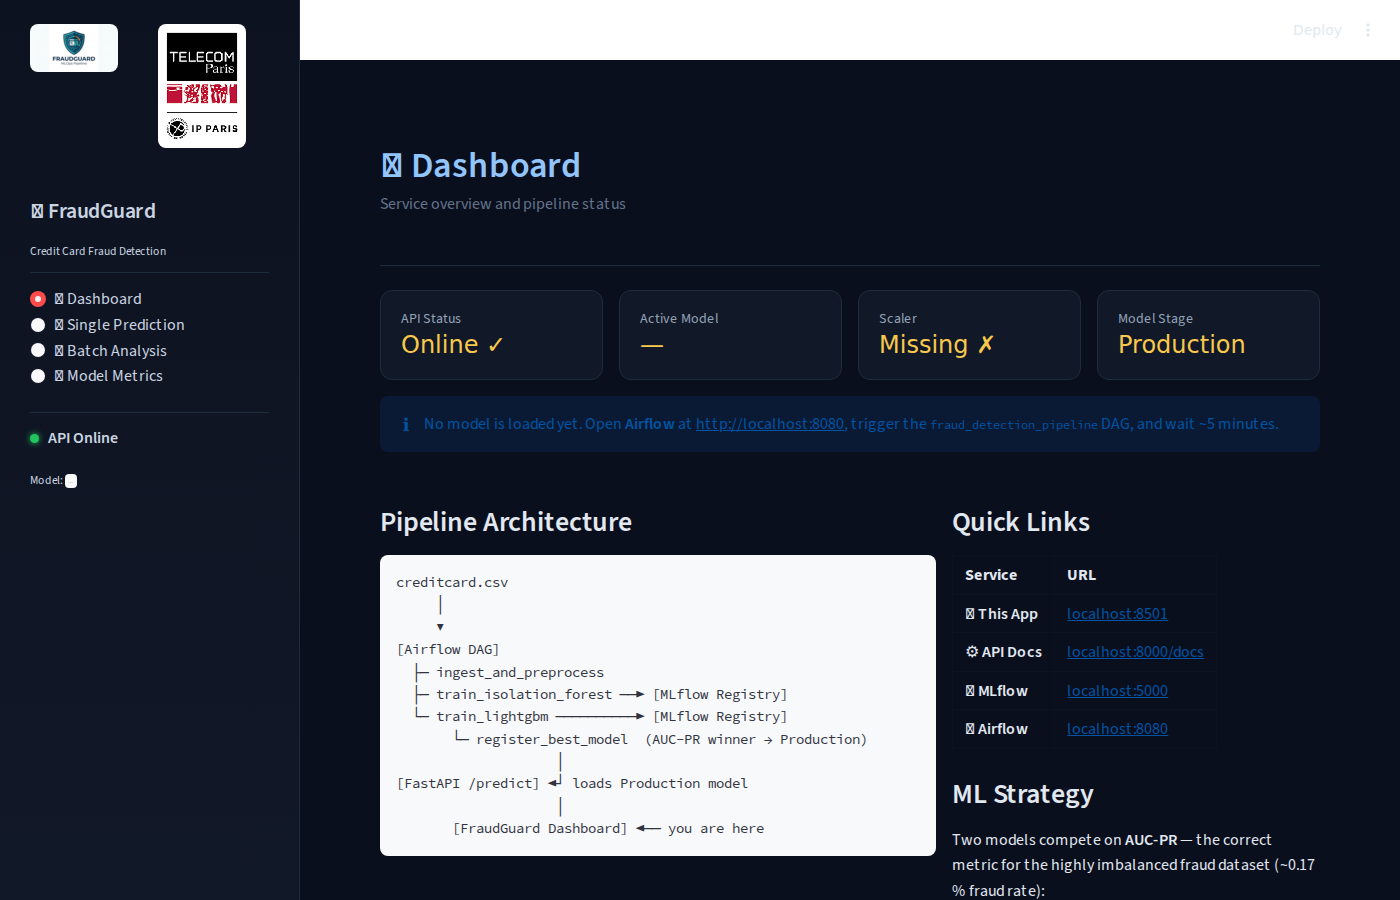
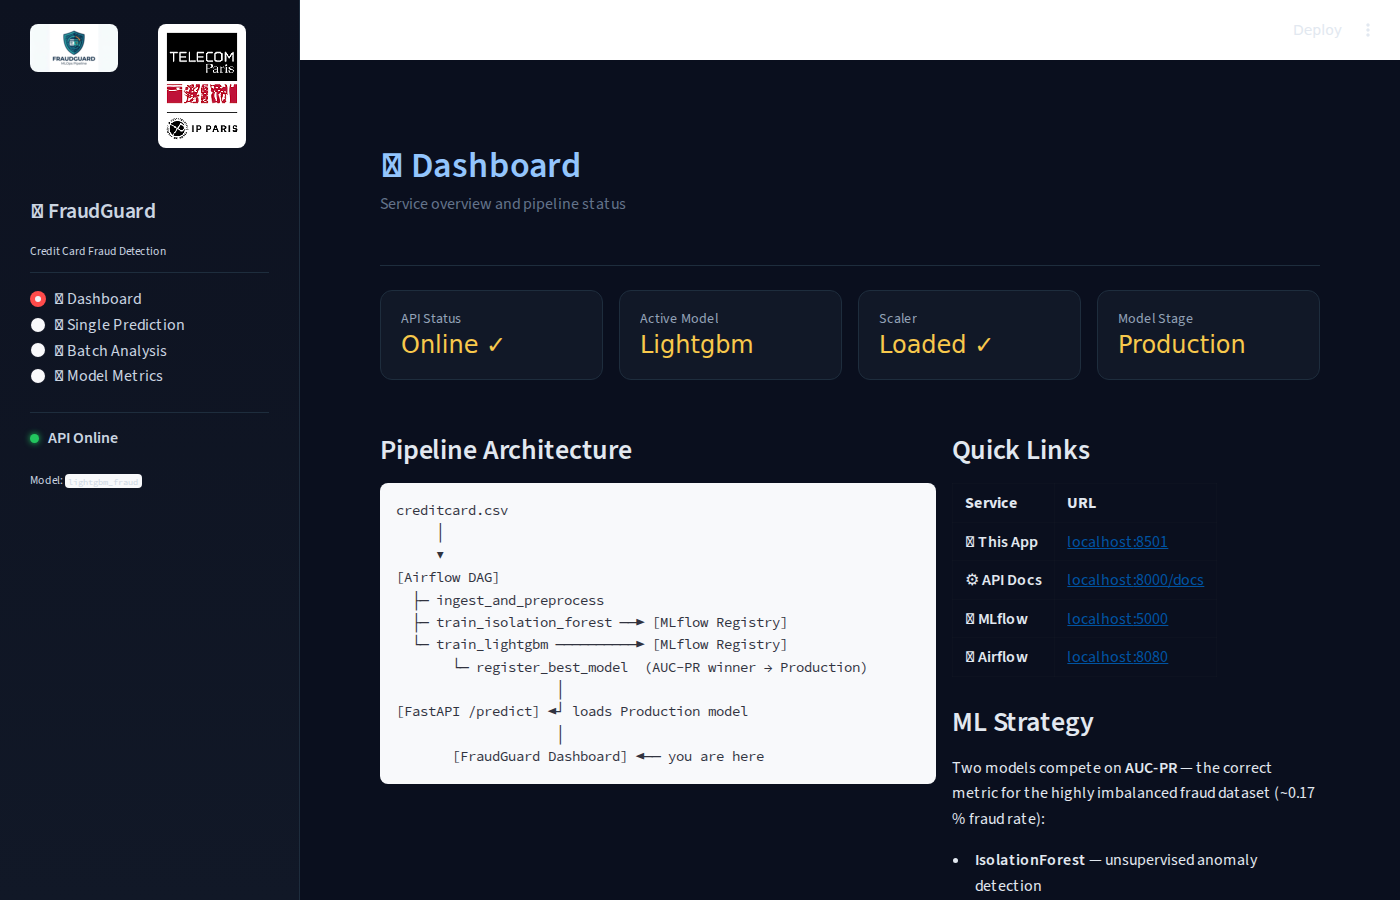
fix: docker compose v2, .gitignore, author name, screenshots with live model

diff --git a/README.md b/README.md
@@ -183,13 +183,12 @@ The `fraud_retraining_ct` DAG runs **daily**. It checks whether the production m
 ### Prerequisites
 
 - **Docker** and **Docker Compose** v2 installed
-- **`creditcard.csv`** placed in a sibling directory:
+- **`creditcard.csv`** placed at `~/creditcard.csv` (sibling of the project directory):
 
 ```
-parent_directory/
-├── creditcard.csv/
-│   └── creditcard.csv        # Kaggle Credit Card Fraud Detection dataset
-└── Fraudguard/               # ← this repository
+~/
+├── creditcard.csv               # Kaggle Credit Card Fraud Detection dataset
+└── Fraudguard/                  # ← this repository
 ```
 
 > 📥 Download the dataset from [Kaggle](https://www.kaggle.com/datasets/mlg-ulb/creditcardfraud).
@@ -204,9 +203,8 @@ cd Fraudguard
 # 2. Create environment file
 cp .env.example .env
 
-# 3. Build and start all services
-make up
-# or: docker compose up --build -d
+# 3. Build and start all services (requires Docker Compose v2)
+docker compose up --build -d
 
 # 4. Wait ~60-90 seconds for bootstrap
 #    (PostgreSQL, LocalStack S3 bucket, Airflow DB init)
@@ -478,9 +476,11 @@ make format              # Ruff formatting
 
 ## 👥 Authors
 
-**Mastère Spécialisé IA — Télécom Paris, Institut Polytechnique de Paris**
+**Tahiana Hajanirina ANDRIAMBAHOAKA**
 
-Module **DATA713** — MLOps
+Mastère Spécialisé IA — Télécom Paris, Institut Polytechnique de Paris
+
+Module DATA713 — MLOps
 
 ---
 
